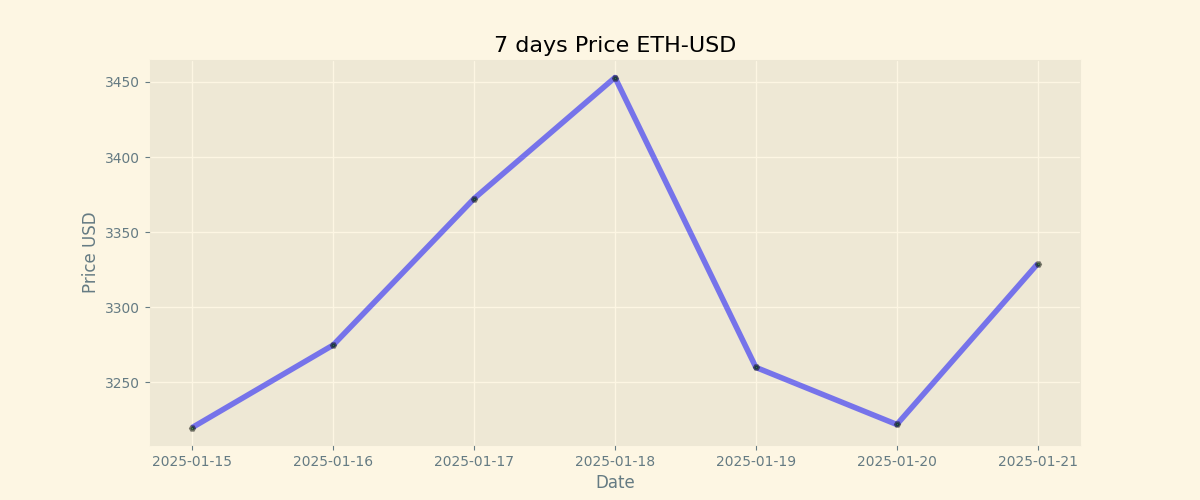
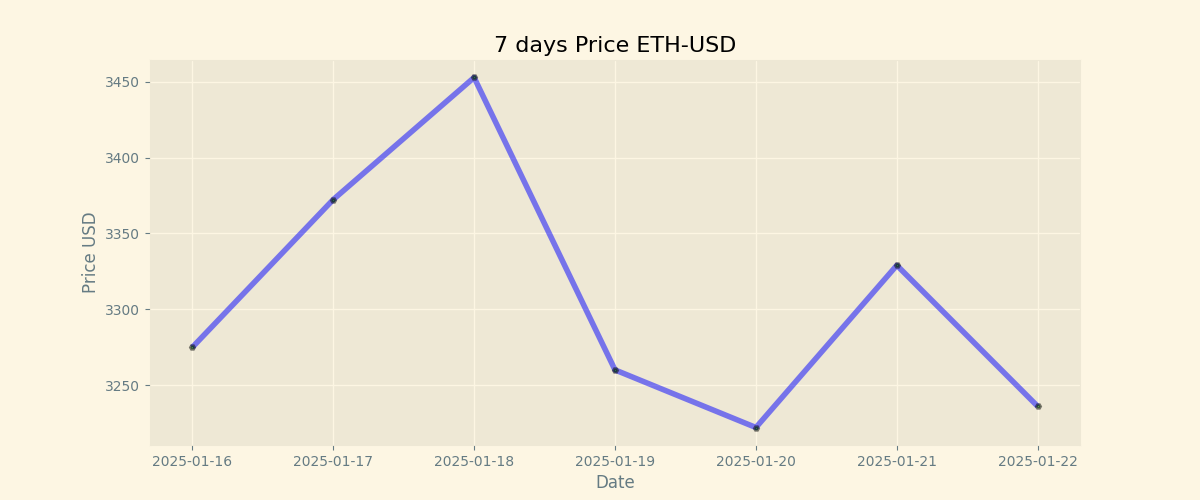
Duty Updates 2025-01-22

diff --git a/README.md b/README.md
@@ -9,8 +9,8 @@
 
 | Currency | Price           |
 | -------- | --------------- |
-| **BTC**  | **$ 106000.0** |
-| **ETH**  | **$ 3329.0** |
+| **BTC**  | **$ 104898.0** |
+| **ETH**  | **$ 3235.95** |
 
 ## BTC chart
 
